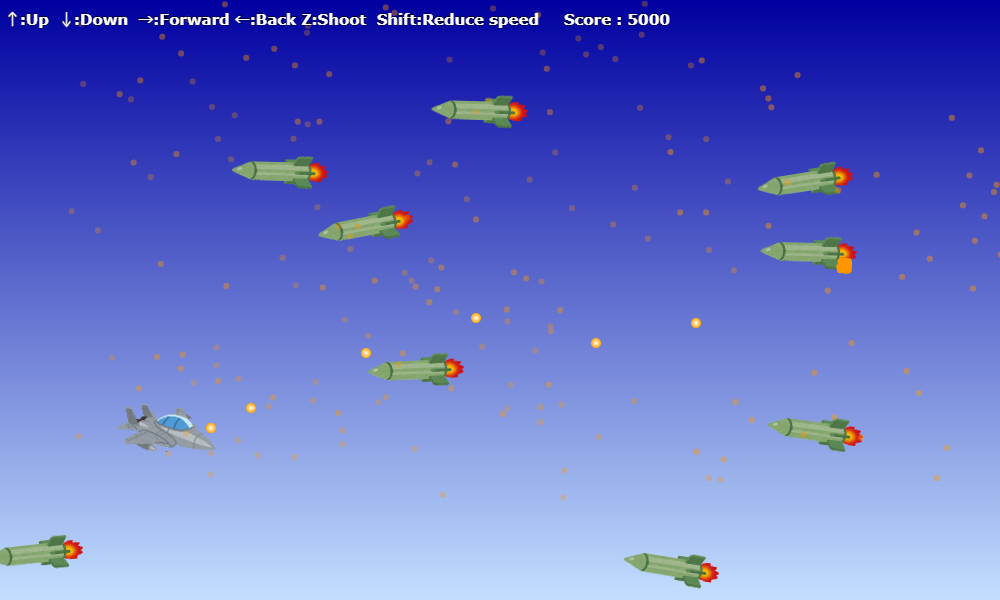
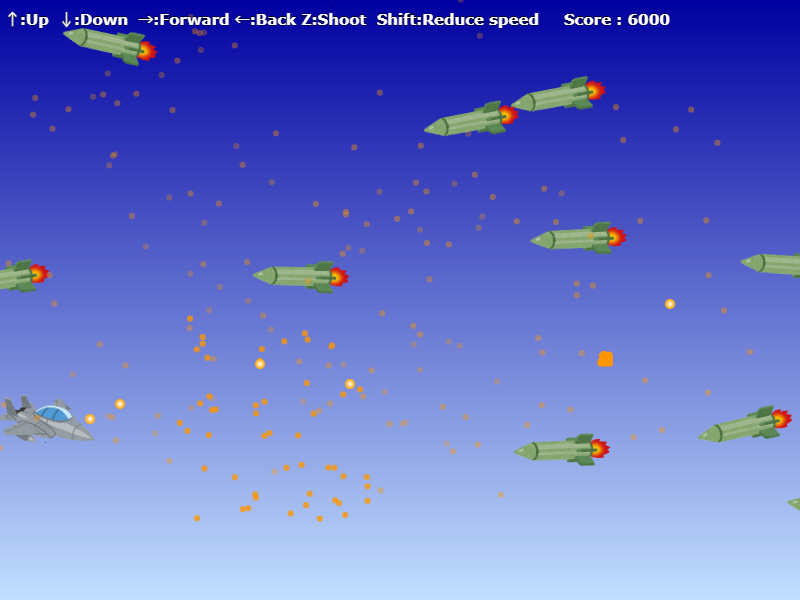
feat: change canvas size from 1000x600 to 800x600

diff --git a/src/script.js b/src/script.js
@@ -7,7 +7,7 @@ var GameScene = /** @class */ (function () {
         this.score = 0;
         this.canvas = canvas;
         this.ctx = this.canvas.getContext("2d");
-        this.canvas.width = 1000;
+        this.canvas.width = 800;
         this.canvas.height = 600;
         this.width = this.canvas.width;
         this.heigtht = this.canvas.height;

diff --git a/src/script.ts b/src/script.ts
@@ -78,7 +78,7 @@ class GameScene implements Scene {
         this.canvas = canvas;
         this.ctx = this.canvas.getContext("2d") as CanvasRenderingContext2D;
 
-        this.canvas.width = 1000;
+        this.canvas.width = 800;
         this.canvas.height = 600;
 
         this.width = this.canvas.width;
